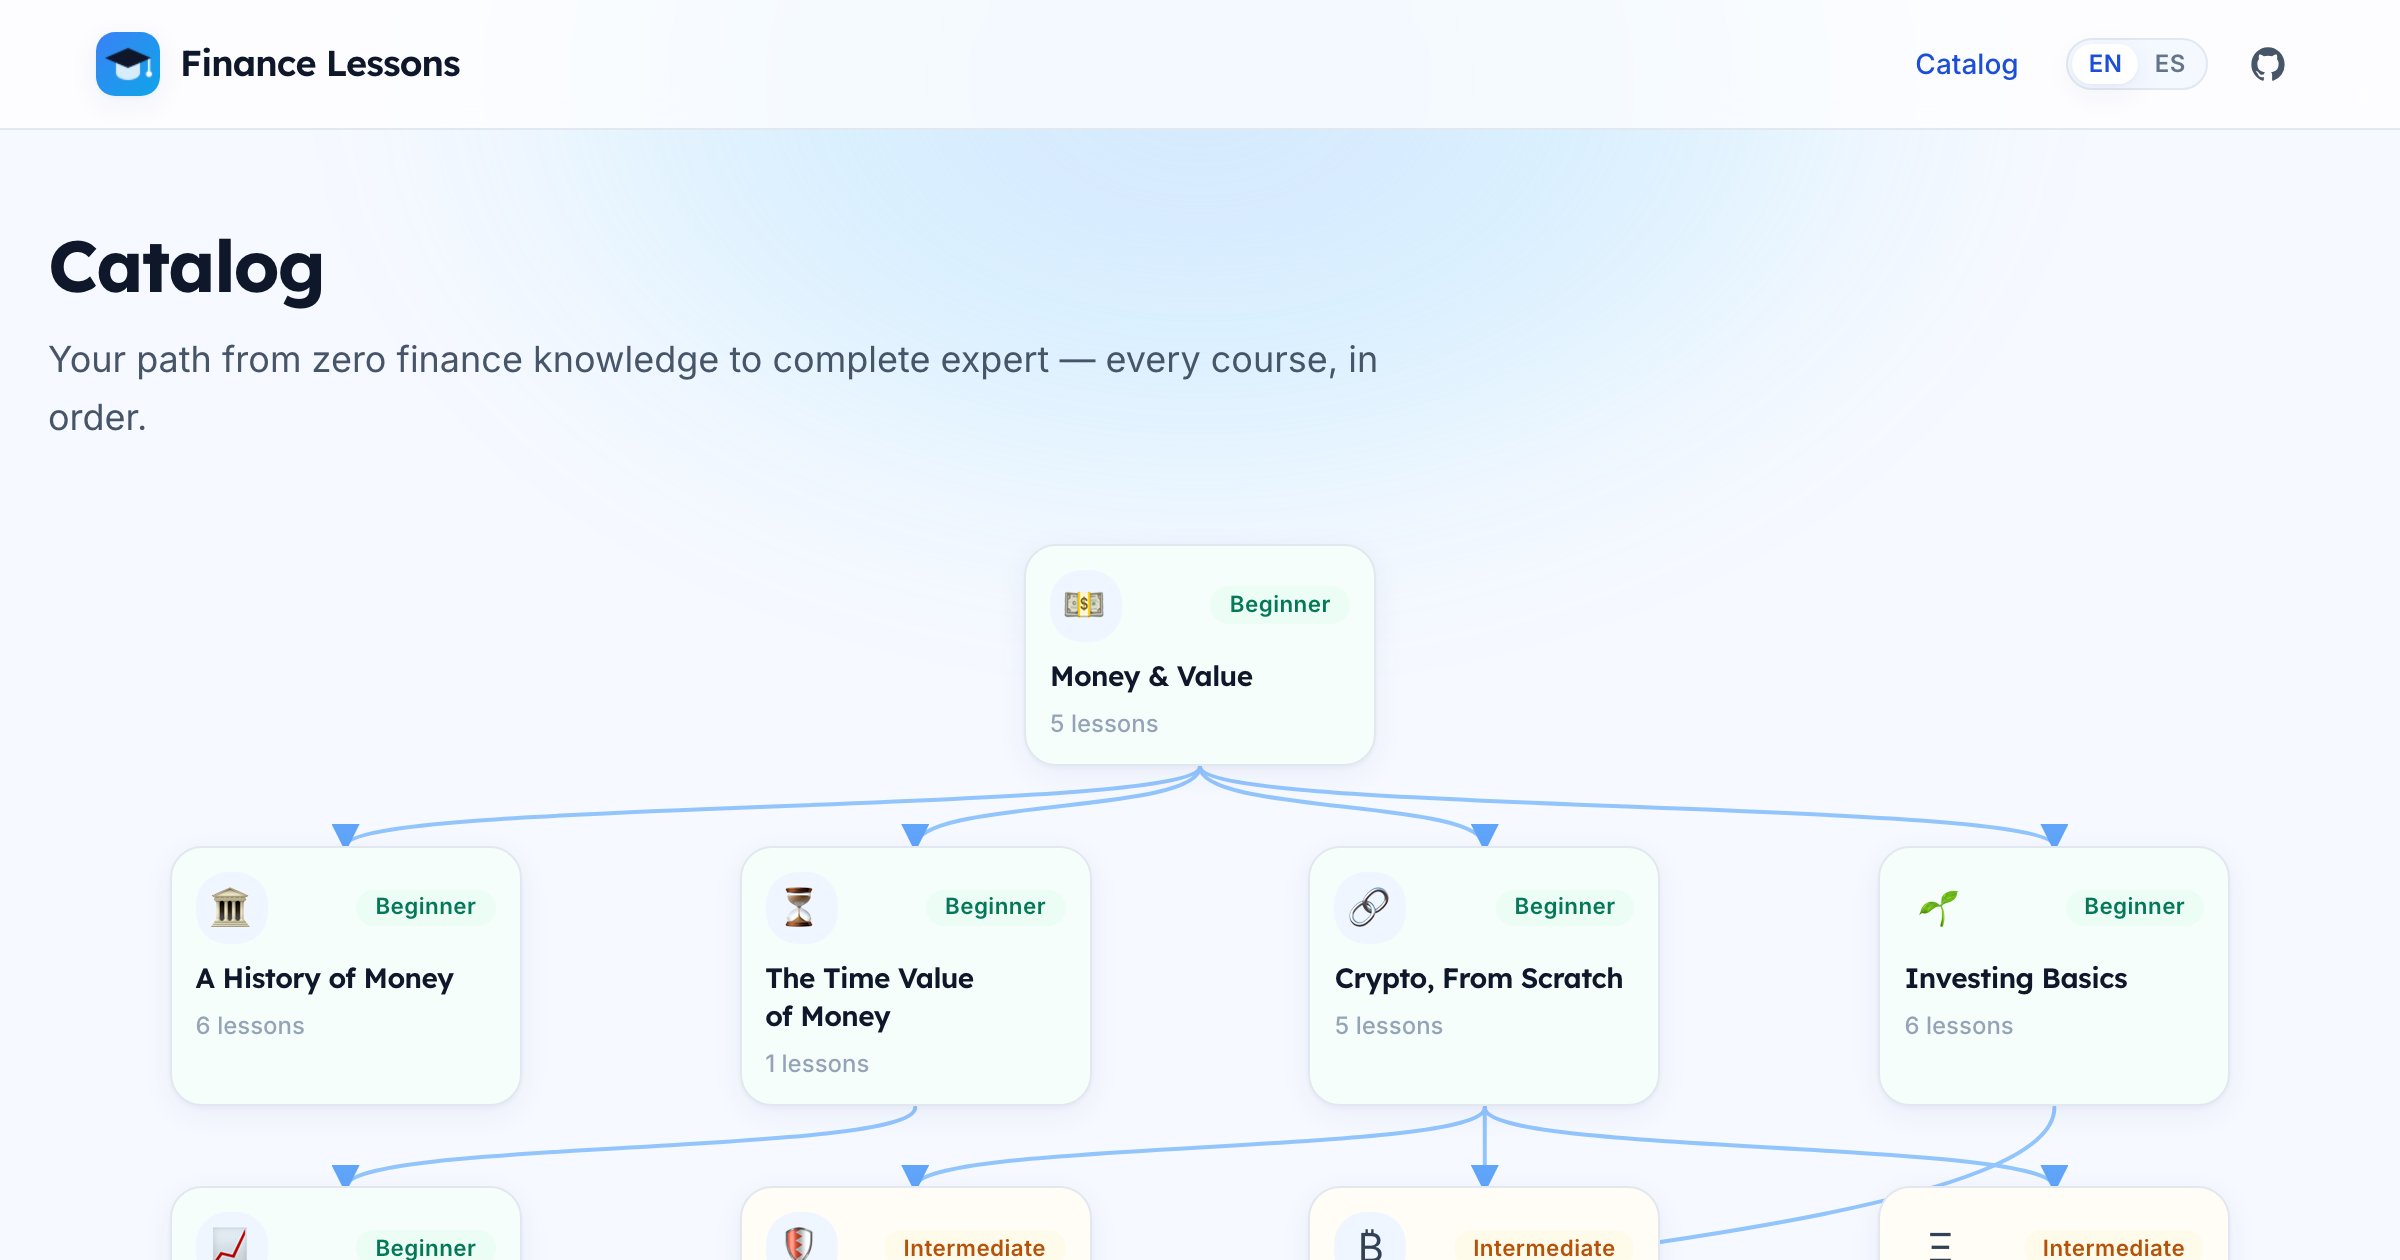
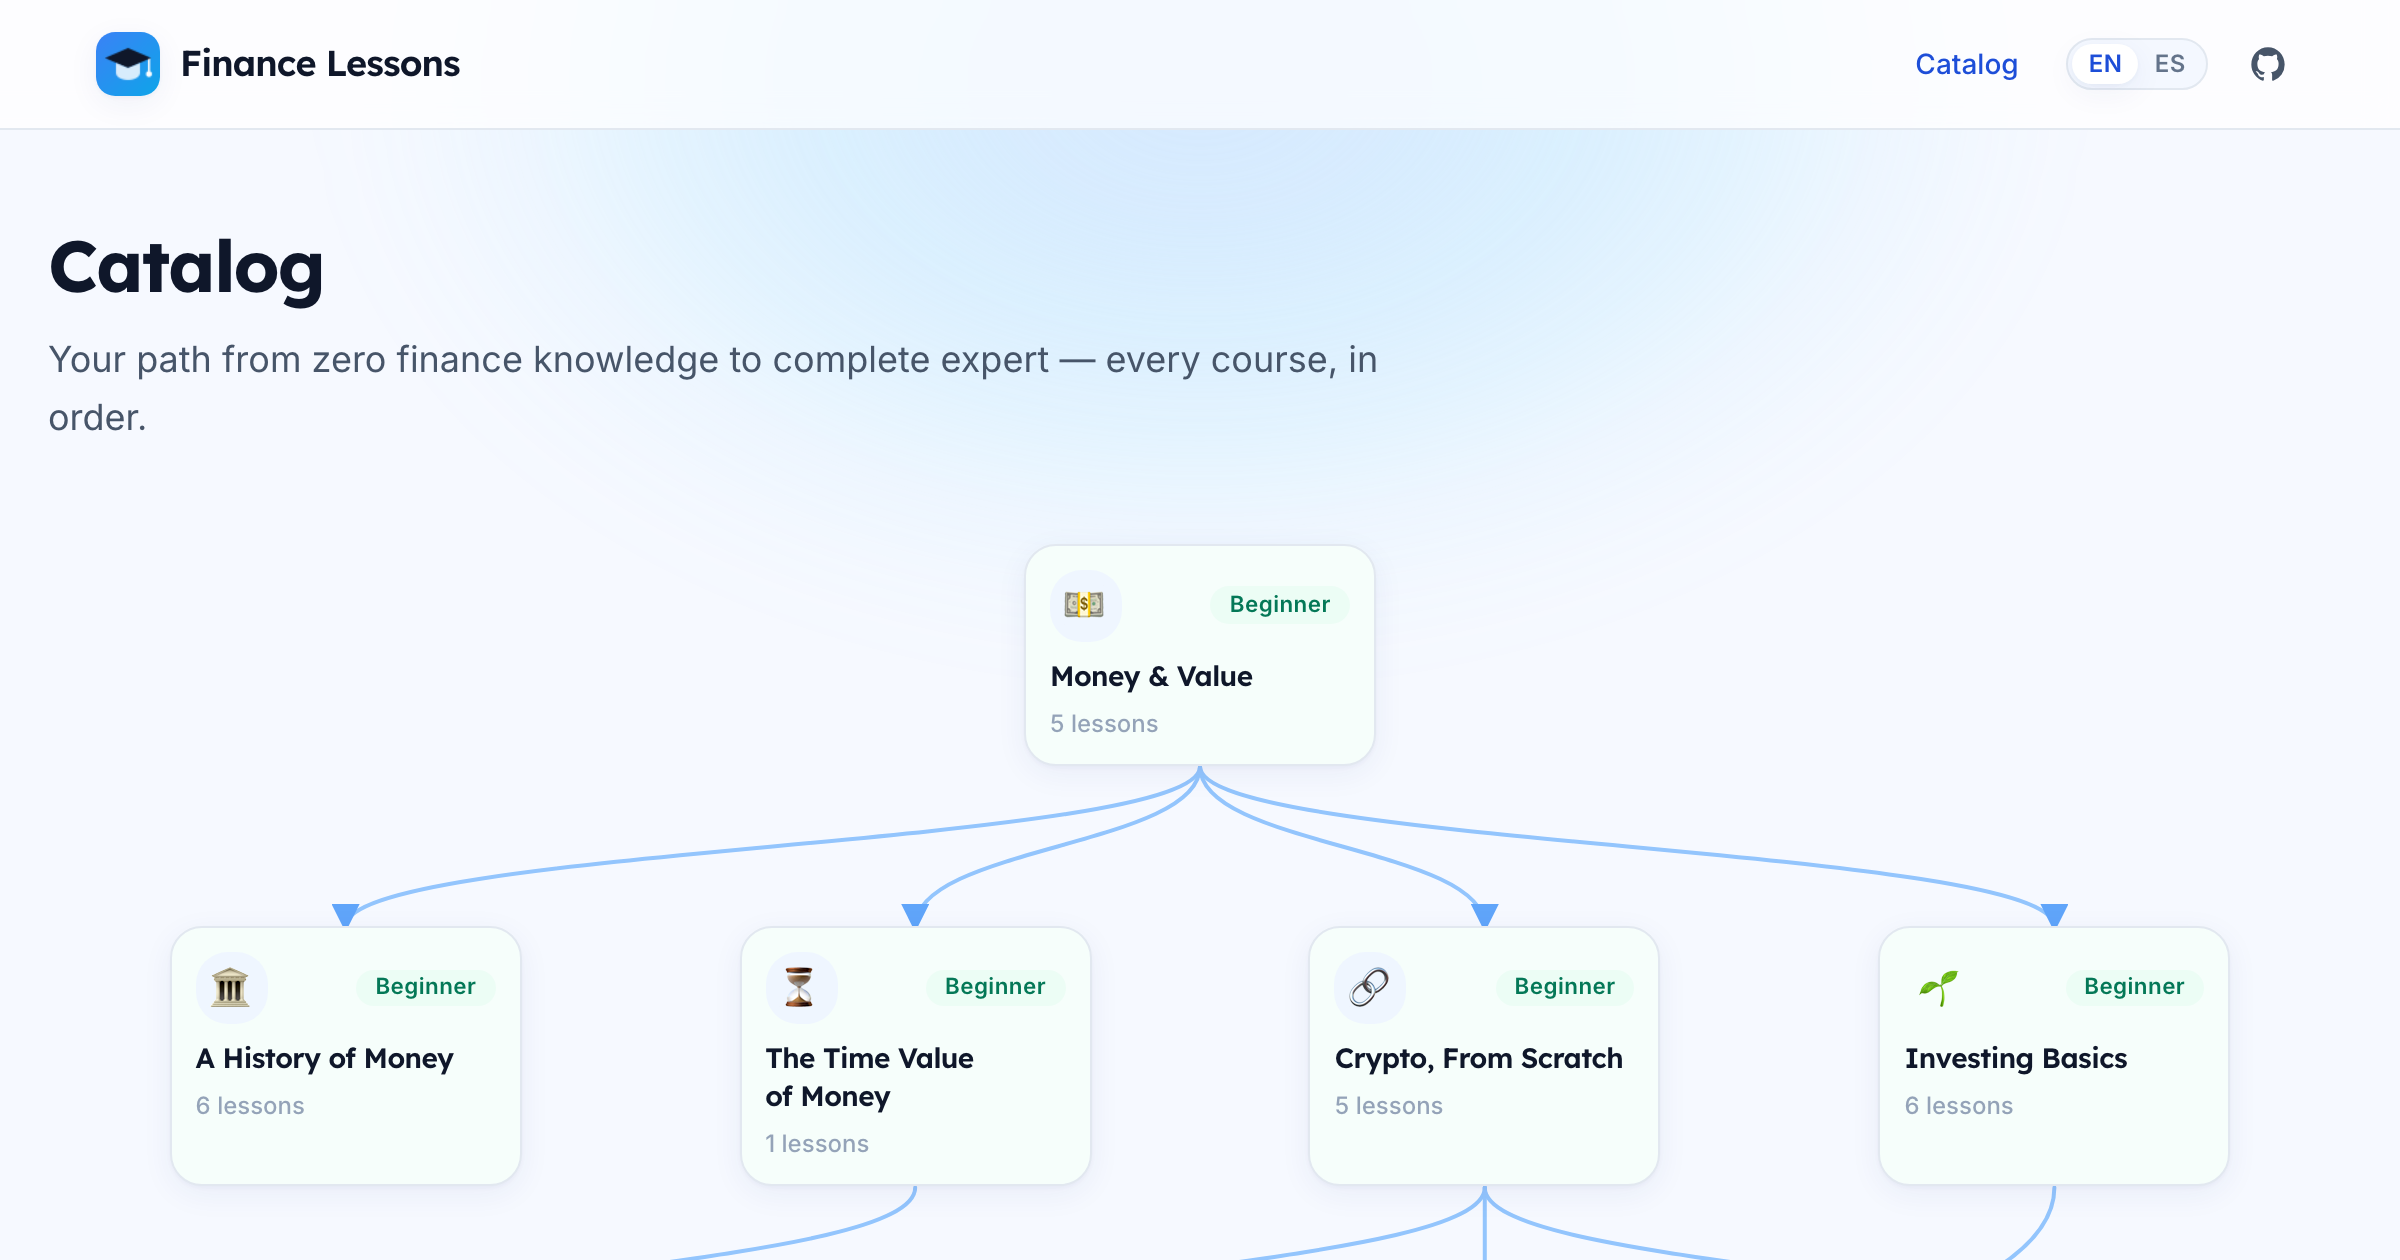
fix(catalog): wider level spacing; move difficulty badge below title on mobile

diff --git a/src/components/react/CourseGraph.tsx b/src/components/react/CourseGraph.tsx
@@ -267,7 +267,7 @@ export function CourseGraph({
         </svg>
 
         {/* Card layers — plain responsive flow; arrows snap to these. */}
-        <ol className="relative flex list-none flex-col gap-y-6 p-0 sm:gap-y-10">
+        <ol className="relative flex list-none flex-col gap-y-12 p-0 sm:gap-y-20">
           {rows.map((row, layer) => (
             <li key={layer} className="m-0 p-0">
               <ul className="flex list-none flex-wrap items-stretch justify-evenly gap-x-6 gap-y-4 p-0 sm:gap-x-12">
@@ -316,7 +316,7 @@ export function CourseGraph({
                             {n.icon}
                           </span>
                           {n.difficulty ? (
-                            <span className={cx('difficulty-badge', DIFFICULTY_CLASS[n.difficulty])}>
+                            <span className={cx('difficulty-badge hidden sm:inline-flex', DIFFICULTY_CLASS[n.difficulty])}>
                               {difficultyLabels[n.difficulty]}
                             </span>
                           ) : null}
@@ -329,6 +329,11 @@ export function CourseGraph({
                         >
                           {n.title}
                         </h3>
+                        {n.difficulty ? (
+                          <span className={cx('difficulty-badge mt-1.5 self-start sm:hidden', DIFFICULTY_CLASS[n.difficulty])}>
+                            {difficultyLabels[n.difficulty]}
+                          </span>
+                        ) : null}
                         <p className="mt-1.5 text-xs font-medium text-ink-400">
                           {n.lessons} {lessonsLabel}
                         </p>